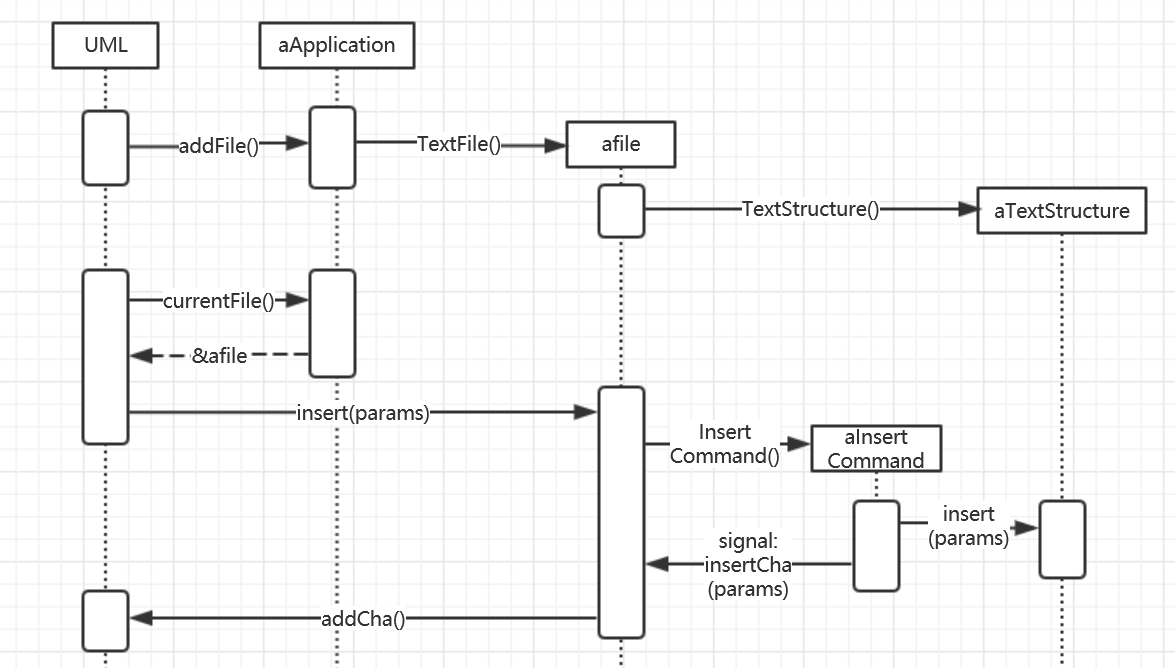
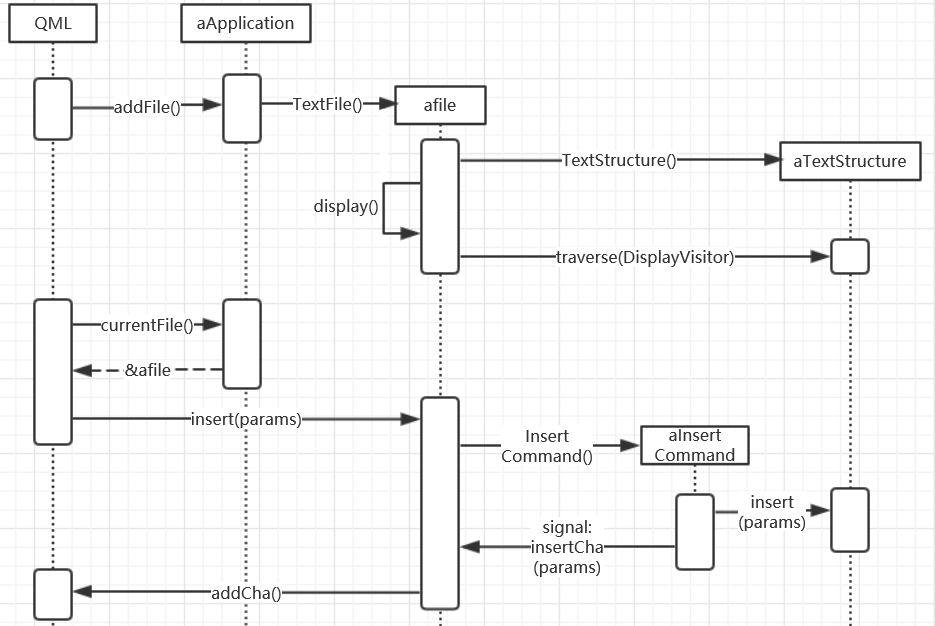
总体方案设计说明

Changed region(s): [[0.0, 0.0, 0.9925, 1.0], [0.2481, 0.7588, 0.2791, 0.8195]]

diff --git a/docs/总体方案设计说明.md b/docs/总体方案设计说明.md
@@ -1,0 +1,50 @@
+# 总体方案设计说明
+#### Encoded in UTF-8
+
+# 1. 软件开发环境
+* IDE: Qt Creator 4.5.1
+* QT库版本: 5.10.1
+* 编译器: MSVC 2017 64bit
+* 项目类型: Qt Quick Application
+* 编程语言: C++/QML
+* 版本管理工具: Git
+* 文档编写语言: Markdown
+* 文档编辑器: Visual Studio Code
+
+# 2. 架构
+
+## 3.1 层次
+总体上分为UI(用户交互界面)和底层逻辑两部分。UI及相关逻辑由QML语言编写，底层逻辑及数据结构内存管理由C++实现。
+
+![QML&CPP](QML%20CPP.png)
+
+用户与UI界面交互，产生事件(event)传给QML，QML接受事件并进行UI层次上的响应，若涉及到文档的编辑操作，则QML通过调用C++提供的Q_INVOKABLE接口函数将事件交由C++处理，C++通过对底层数据结构进行操作后，将操作得到的结果以signal(QT提供的信号与槽机制，其实就是个Observer模式的语法糖)的形式发出。QML会监听C++传来的信号，得到信号后会在UI界面做出相应的展示处理。
+
+## 3.2 设计模式
+
+* Visitor模式: 用于提供遍历底层数据结构时的操作
+* Command模式: 用于封装向底层结构中“写”的命令，支持撤销、重做操作
+* Mediator模式: 用于C++各类之间的解耦，C++与QML之间的解耦(这是沟通C++与QML的桥梁)
+
+
+# 3. 模块划分 
+
+## 3.1 概览(C++部分)
+![ClassDiagram-Simplfied](ClassDiagram-Simplfied.png)
+QML主要通过Application和TextFile两个类(Mediator)来和C++传递数据
+
+## 3.2 基本数据结构
+![基本数据结构](base%20structure.png)
+
+## 3.3 Visitor继承体系
+![visitor](visitor.png)
+
+## 3.4 Command继承体系
+![command](command.png)
+
+## 3.5 Mediator
+![mediator](mediator.png)
+
+## 3.6 详细架构
+![Class Diagrams](Class%20Diagrams.png)
+
